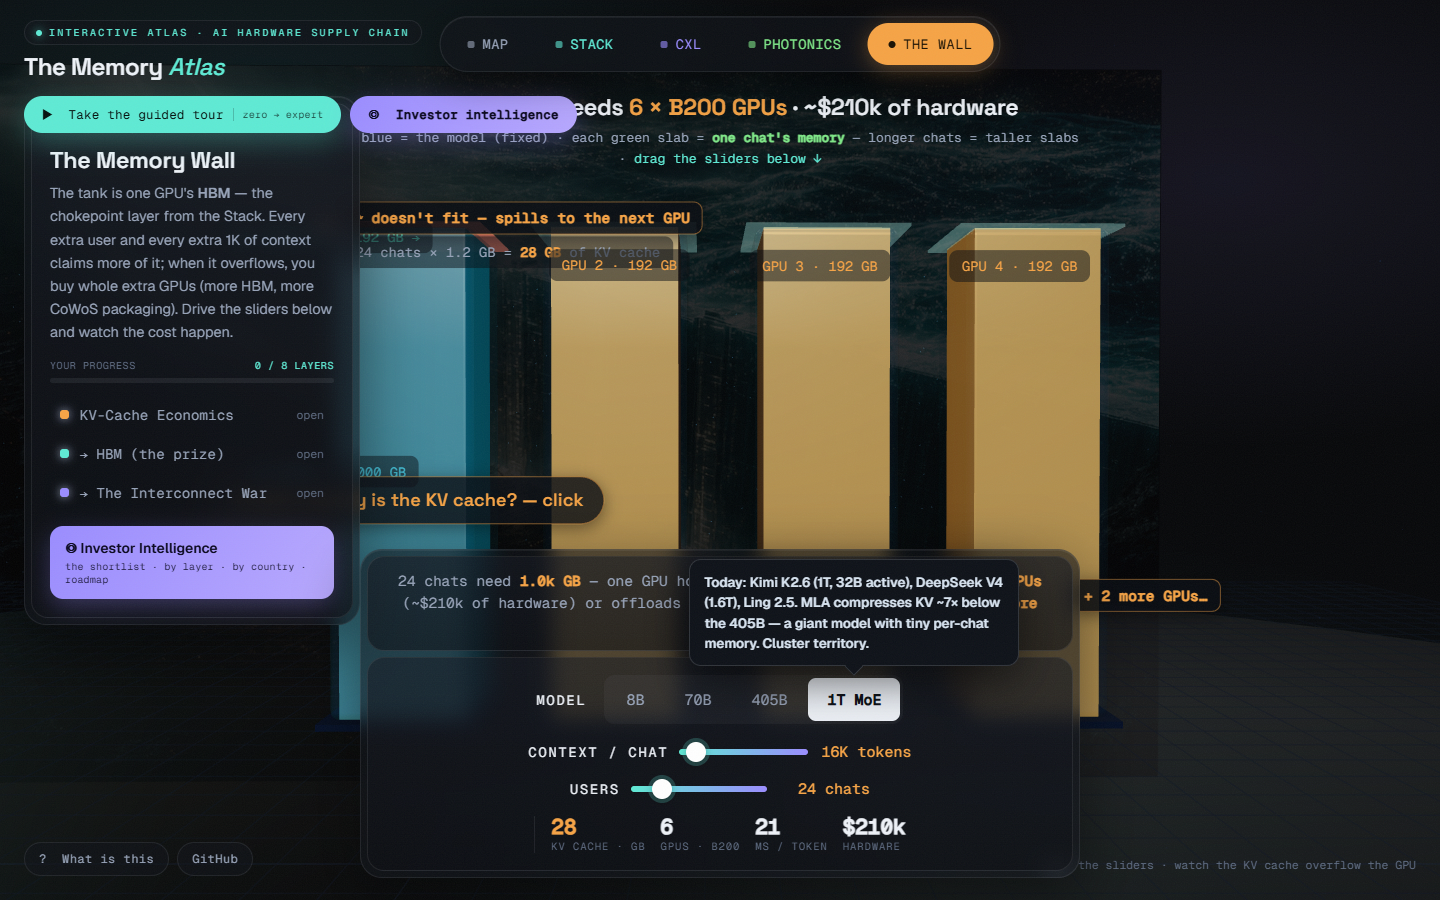
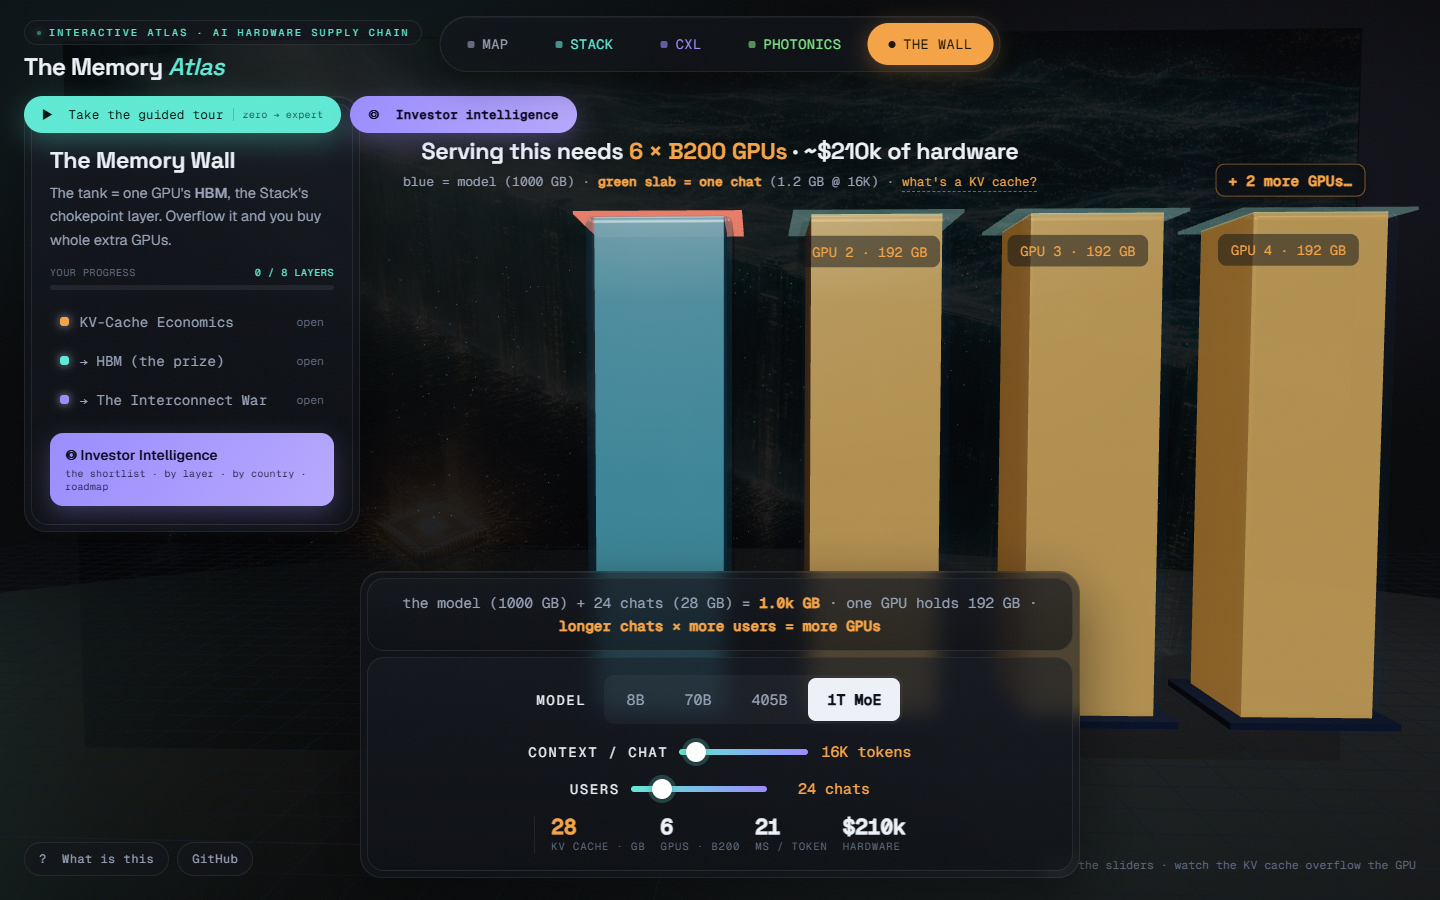
Declutter The Wall: one message per zone (v1.3.1)
Scene keeps only object-anchored labels (GPU names, model block, rim —
the latter two hidden during spillover pans). Spill pill and floating
KV-total pill removed as redundant; 'what's a KV cache?' is now an
inline link in the fixed legend; caption = arithmetic only; '+N more
GPUs' floats above GPU 4; sidebar copy halved; scrim darkened.

diff --git a/index.html b/index.html
@@ -287,7 +287,9 @@
   /* the Wall's fixed headline strip — DOM, so it can never collide with 3D labels */
   #wallHead{position:absolute;left:50%;top:136px;transform:translateX(-50%);z-index:22;text-align:center;pointer-events:none;max-width:min(92vw,900px)}
   #wallHead .wh-t{font-family:var(--display);font-size:23px;font-weight:600;letter-spacing:-.01em;text-shadow:0 2px 18px rgba(0,0,0,.8)}
-  #wallHead .wh-s{font-family:var(--mono);font-size:13px;color:var(--ink-dim);margin-top:6px;line-height:1.6;text-shadow:0 2px 12px rgba(0,0,0,.8)}
+  #wallHead .wh-s{font-family:var(--mono);font-size:13px;color:var(--ink-dim);margin-top:6px;line-height:1.6;text-shadow:0 2px 12px rgba(0,0,0,.8);white-space:nowrap}
+  #wallHead #whLearn{pointer-events:auto;font-family:var(--mono);font-size:12.5px;color:var(--heat);background:none;border:0;border-bottom:1px dashed rgba(246,163,69,.55);padding:0 0 1px;cursor:pointer}
+  #wallHead #whLearn:hover{color:#ffc276}
   @media (max-width:980px){#wallHead{top:160px}#wallHead .wh-t{font-size:18px}#wallHead .wh-s{display:none}}
   /* first-visit tour nudge (side card, not a takeover) */
   #tourNudge{position:fixed;right:24px;bottom:70px;z-index:30;width:250px;background:var(--glass);border:1px solid var(--hair-bright);border-radius:16px;padding:15px 16px;box-shadow:0 16px 50px rgba(0,0,0,.55);animation:nudgein .6s var(--ease)}
@@ -551,7 +553,7 @@
 <!-- The Wall's fixed headline (written by updateKV) -->
 <div id="wallHead" style="display:none">
   <div class="wh-t" id="whT"></div>
-  <div class="wh-s">blue = the model (fixed) · each green slab = <b style="color:#7ee787">one chat's memory</b> · <span style="color:#5eead4">drag the sliders ↓</span></div>
+  <div class="wh-s" id="whS"></div>
 </div>
 
 <!-- quiet tour nudge for first-time visitors (replaces the auto-opening welcome modal) -->
@@ -1186,7 +1188,7 @@ const RAIL={
     nodes:[['cxl_switch','The Interconnect War','#9a8cff'],['cxl_module','CXL Memory Module','#9a8cff'],['cxl','↑ CXL in the stack','#9a8cff']]},
   photonics:{kicker:'Region · 03',title:'Photonics',lede:'The copper wall vs light. Click the chips, links, and laser callout — companies and bottlenecks live inside each node.',
     nodes:[['phot_laser','The Laser Bottleneck','#f6a345'],['phot_cpo','Co-Packaged Optics','#7ee787'],['phot_transceiver','Optical Transceivers','#7ee787']]},
-  ai:{kicker:'Region · 04',title:'The Memory Wall',lede:'The tank is one GPU\'s <b>HBM</b> — the chokepoint layer from the Stack. Every extra user and every extra 1K of context claims more of it; when it overflows, you buy whole extra GPUs (more HBM, more CoWoS packaging). Drive the sliders below and watch the cost happen.',
+  ai:{kicker:'Region · 04',title:'The Memory Wall',lede:'The tank = one GPU\'s <b>HBM</b>, the Stack\'s chokepoint layer. Overflow it and you buy whole extra GPUs.',
     nodes:[['kv_econ','KV-Cache Economics','#f6a345'],['hbm','→ HBM (the prize)','#5eead4'],['cxl_switch','→ The Interconnect War','#9a8cff']]},
 };
 function renderRail(region){
@@ -1429,7 +1431,7 @@ const MODELS=[
 function kvGB(m,ctxK,b){return (m.kvTok*ctxK*1024*b)/1e9;}
 function buildAI(){
   const g=new THREE.Group();groups.ai=g;
-  addBackdrop(g,'assets/concept_wall.png',58,32.6,[0,1.5,-20],0.4,0.58);
+  addBackdrop(g,'assets/concept_wall.png',58,32.6,[0,1.5,-20],0.4,0.68);
   // subtle data-ocean atmosphere (the flood of context the GPU's memory must hold)
   {const n=300;const pg=new THREE.BufferGeometry();const pp=new Float32Array(n*3);const seeds=[];
     for(let i=0;i<n;i++){const x=(Math.random()-0.5)*46,y=1+(Math.random()-0.5)*12,z=-15+Math.random()*6;
@@ -1471,15 +1473,13 @@ function buildAI(){
     const gl=label('','faint');gl.visible=false;gl.element.style.color='#f6a345';g.add(gl);gLbls.push(gl);
   }
   const wMesh=new THREE.Mesh(unitBox,matW);g.add(wMesh);
+  // Anti-clutter rule: the scene only carries labels ANCHORED to objects.
+  // The answer + legend live in the fixed #wallHead strip; the arithmetic lives
+  // in the dock caption; the dock carries the numbers. Nothing is said twice.
   const lblW=label('','faint');lblW.element.style.transform='translate(-100%,-50%)';lblW.element.style.color='#46c8e0';g.add(lblW);
-  const lblKV=label('','faint');lblKV.element.style.transform='translate(0,-50%)';g.add(lblKV);
-  const spillLbl=label('↷ doesn\'t fit — spills to the next GPU','heat');spillLbl.visible=false;spillLbl.position.set(2.85,ceilY+0.55,0);spillLbl.element.style.transform='translate(0,-50%)';g.add(spillLbl);
-  const morLbl=label('','heat');morLbl.visible=false;morLbl.position.set(20.4,baseY+3,0);g.add(morLbl);
-  // headline lives in fixed DOM (#wallHead), not the 3D scene — it can never
-  // collide with the UI no matter where the camera pans
+  const morLbl=label('','heat');morLbl.visible=false;morLbl.position.set(16.8,ceilY+1.1,0);g.add(morLbl); // floats above GPU 4, never clips the screen edge
   const ceilLab=label('one B200 GPU = 192 GB →','faint');ceilLab.position.set(-2.55,ceilY,0);ceilLab.element.style.transform='translate(-100%,-50%)';ceilLab.element.style.color='#5eead4';g.add(ceilLab);
-  const learn=label('◆ what exactly is the KV cache? — click','node',()=>openNode('kv_econ'));learn.position.set(5.8,-0.8,0);learn.element.style.borderColor='rgba(246,163,69,.5)';learn.element.style.color='#f6a345';g.add(learn);
-  g.userData.kvui={baseY,ceilY,scale,capGB,TANKH,wMesh,lblW,lblKV,slabs:[],unitBox,matKV,matKV2,matHot,matHot2,ghosts,gFills,gLbls,morLbl,spillLbl,learn,rim:hero.userData.rim,lastX:null};
+  g.userData.kvui={baseY,ceilY,scale,capGB,TANKH,wMesh,lblW,ceilLab,slabs:[],unitBox,matKV,matKV2,matHot,matHot2,ghosts,gFills,gLbls,morLbl,rim:hero.userData.rim,lastX:null};
   scene.add(g);
   updateKV();
   const cx=g.userData.kvui.lastX||0;
@@ -1499,9 +1499,11 @@ function updateKV(){
   ui.wMesh.scale.set(3.35,Math.max(wH,0.06),3.35);
   ui.wMesh.position.set(0,baseY+Math.max(wH,0.06)/2,0);
   ui.lblW.element.innerHTML=`THE MODEL · ${wGB} GB`;
-  // outside-left normally; centered inside the blue block when the camera pans right for spillover
-  ui.lblW.element.style.transform=overflow?'translate(-50%,-50%)':'translate(-100%,-50%)';
-  ui.lblW.position.set(overflow?0:-2.5,baseY+Math.max(Math.min(wH,TANKH)/2,0.35),0);
+  ui.lblW.position.set(-2.5,baseY+Math.max(Math.min(wH,TANKH)/2,0.35),0);
+  // on spillover the camera pans and these outside-left anchors would clip behind
+  // the rail — and the ghost GPUs already communicate capacity. Hide, don't fight.
+  ui.lblW.visible=!overflow;
+  ui.ceilLab.visible=!overflow;
   // — one slab per chat, stacked until the tank is full (pooled meshes, no realloc) —
   const chunk=Math.max(1,Math.ceil(kv.batch/28));   // ≤28 slabs on screen; 1 slab = `chunk` chats
   const nSlabs=Math.ceil(kv.batch/chunk);
@@ -1518,9 +1520,6 @@ function updateKV(){
     y+=slabH;shown++;
   }
   for(let i=shown;i<ui.slabs.length;i++)ui.slabs[i].visible=false;
-  const stackTop=Math.min(baseY+wH+val*scale,ceilY);
-  ui.lblKV.element.innerHTML=`${kv.batch} chat${kv.batch>1?'s':''} × ${f1(kvPer)} GB = <b style="color:${overflow?'#f6a345':'#7ee787'}">${f1(val)} GB</b> of KV cache`;
-  ui.lblKV.position.set(2.5,Math.min((baseY+wH+stackTop)/2,ceilY-0.4),0);
   // — spillover pours into ghost GPUs on the right —
   let rem=totalGB-capGB;
   ui.ghosts.forEach((gt,i)=>{
@@ -1537,7 +1536,6 @@ function updateKV(){
   });
   ui.morLbl.visible=gpusN>4;
   if(gpusN>4)ui.morLbl.element.innerHTML=`+ ${gpusN-4} more GPUs…`;
-  ui.spillLbl.visible=overflow;
   ui.rim.material.color.set(overflow?0xff6b5e:0x5eead4);
   // recenter the camera on the row of GPUs (skip the tween on first paint)
   const wantX=Math.min(gpusN-1,3)*5.6/2;
@@ -1547,8 +1545,10 @@ function updateKV(){
   if(whT)whT.innerHTML=overflow
     ?`Serving this needs <b style="color:#f6a345">${gpusN} × B200 GPUs</b> · ~${costK0<1000?'$'+costK0+'k':'$'+(costK0/1000).toFixed(1)+'M'} of hardware`
     :`This serves on <b style="color:#7ee787">ONE B200 GPU</b> — ${Math.max(0,Math.round(capGB-totalGB))} GB to spare`;
-  // keep the explainer pill out of the ghosts' way: right side when it fits, screen-left when spilling
-  ui.learn.position.set(overflow?wantX-7.6:5.8,-0.8,0);
+  // dynamic legend: the per-chat number lives here now, not in a floating scene label
+  const whS=document.getElementById('whS');
+  if(whS)whS.innerHTML=`blue = model (${wGB} GB) · <b style="color:${overflow?'#f6a345':'#7ee787'}">green slab = one chat</b> (${f1(kvPer)} GB @ ${kv.ctx}K) · <button id="whLearn">what's a KV cache?</button>`;
+  const wl=document.getElementById('whLearn');if(wl)wl.onclick=()=>openNode('kv_econ');
   if(ui.lastX==null)ui.lastX=wantX;
   else if(ui.lastX!==wantX){ui.lastX=wantX;tweenObj(controls.target,{x:wantX},0.9);tweenObj(camera.position,{x:wantX,z:overflow?31:28},0.9);}
   // live consequences
@@ -1558,8 +1558,9 @@ function updateKV(){
   set('kvGpus',gpusN);set('kvSpeed',msTok<10?msTok.toFixed(1):Math.round(msTok));set('kvCost',costK<1000?('$'+costK+'k'):('$'+(costK/1000).toFixed(2)+'M'));
   const note=document.getElementById('kvNote');
   if(note){note.classList.toggle('ok',!overflow);
-    if(overflow)note.innerHTML=`${kv.batch} chat${kv.batch>1?'s':''} need <b>${f1(totalGB)} GB</b> — one GPU holds 192 GB, so this spills across <b>${gpusN} GPUs</b> (~${costK<1000?'$'+costK+'k':'$'+(costK/1000).toFixed(1)+'M'} of hardware) or offloads to CXL. <b>Longer chats × more users = more GPUs.</b>`;
-    else note.innerHTML=`Fits: the model (${wGB} GB) + ${kv.batch} chat${kv.batch>1?'s':''} (${f1(val)} GB) = <b>${f1(totalGB)} of 192 GB</b>. Push <b>context</b> or <b>users</b> up and watch it spill into more GPUs.`;
+    // the caption carries ONLY the arithmetic — GPU count and cost live in the headline
+    if(overflow)note.innerHTML=`the model (${wGB} GB) + ${kv.batch} chat${kv.batch>1?'s':''} (${f1(val)} GB) = <b>${f1(totalGB)} GB</b> · one GPU holds 192 GB · <b>longer chats × more users = more GPUs</b>`;
+    else note.innerHTML=`the model (${wGB} GB) + ${kv.batch} chat${kv.batch>1?'s':''} (${f1(val)} GB) = <b>${f1(totalGB)} of 192 GB</b> · push <b>context</b> or <b>users</b> and watch it spill`;
   }
 }
 

diff --git a/CHANGELOG.md b/CHANGELOG.md
@@ -2,6 +2,29 @@
 
 All notable changes to The Memory Atlas. Versioning: semantic, via git tags.
 
+## [1.3.1] — 2026-07-05
+
+Declutter pass on The Wall ("isn't this way too cluttered?"). New rule: one message
+per zone — headline strip = the answer + legend, 3D scene = only labels anchored to
+objects, caption = the arithmetic, dock = the controls. Nothing is said twice.
+
+### Removed from the scene
+- The "doesn't fit — spills to the next GPU" pill (the headline, red rim and visible
+  ghost tanks already say it).
+- The floating "N chats × y GB = z GB of KV cache" pill (its numbers moved into the
+  legend and caption; the dock shows the total).
+- The floating "what exactly is the KV cache?" pill — now an inline link in the
+  fixed legend, where it can never clip.
+- "THE MODEL · x GB" and "one B200 GPU = 192 GB →" hide during spillover, when the
+  panned camera would clip them behind the rail.
+
+### Changed
+- Legend is now dynamic and single-line: model size, per-chat GB at the current
+  context, and the KV-cache link.
+- Caption carries only the arithmetic; GPU count + cost live in the headline only.
+- "+N more GPUs" floats above GPU 4 instead of clipping at the screen edge.
+- The Wall's sidebar copy cut to two lines; backdrop scrim darkened.
+
 ## [1.3.0] — 2026-07-05
 
 CPU fix + Wall v2, from direct user feedback ("framerate still super low, CPU goes